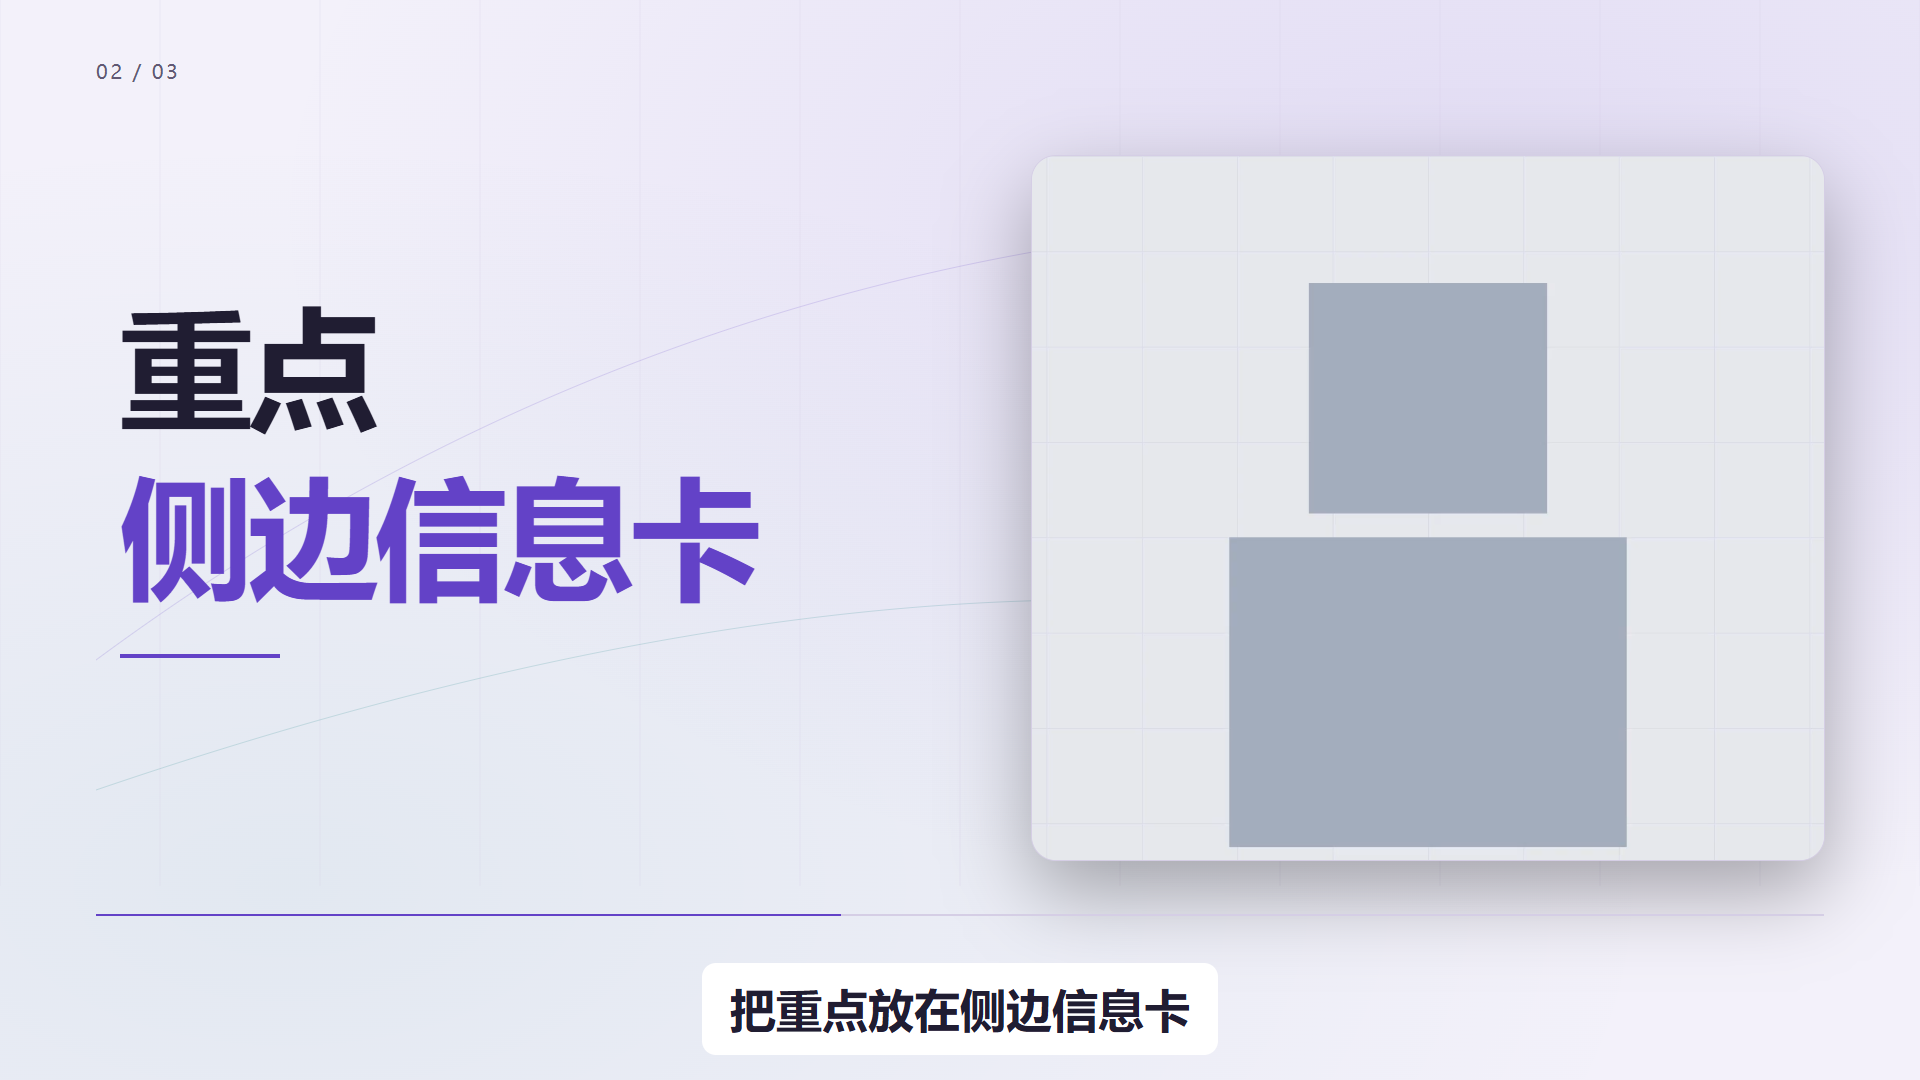
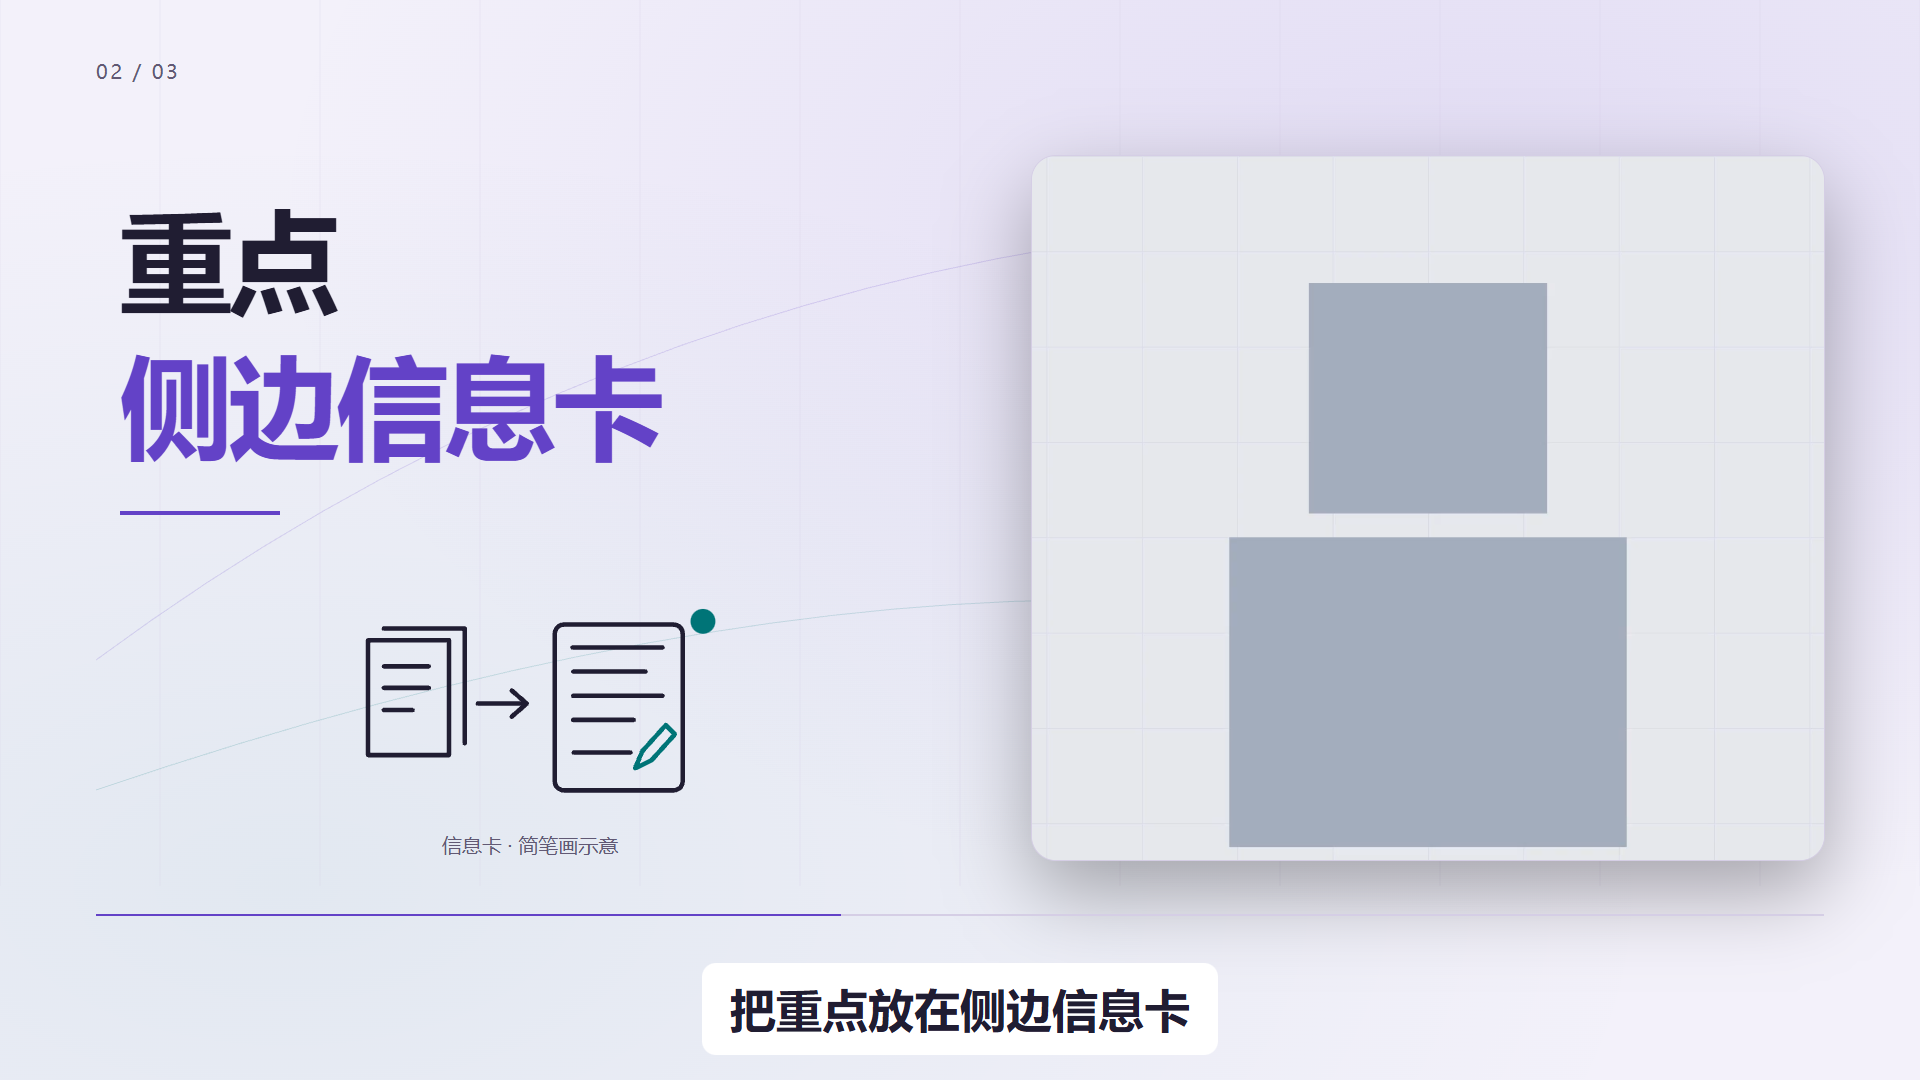
feat: add semantic line drawings and refresh current examples

Changed region(s): [[0.0625, 0.1833, 0.4062, 0.7333], [0.2188, 0.7639, 0.3125, 0.7944]]

diff --git a/packages/remotion-renderer/src/EditorialPresenterVideo.tsx b/packages/remotion-renderer/src/EditorialPresenterVideo.tsx
@@ -3,6 +3,7 @@ import {Video} from '@remotion/media';
 import {AbsoluteFill, staticFile, useCurrentFrame} from 'remotion';
 import type {Storyboard, StoryboardBeat} from '../../core/src/schema';
 import type {SrtCue} from '../../core/src/types';
+import {SourceDoodle} from './illustrations/SourceDoodle';
 
 type Rect = {x: number; y: number; w: number; h: number; r: number};
 type Mode = NonNullable<StoryboardBeat['liteDirection']>['mode'];
@@ -61,6 +62,7 @@ export const EditorialPresenterVideo = ({storyboard: s, cues}: {storyboard: Stor
   const sourceScale = Math.max(rect.w / 1920, rect.h / 886) * (1 + focus);
   const videoWidth = 1920 * sourceScale; const videoHeight = 1080 * sourceScale;
   const direction = beat.liteDirection;
+  const doodle = direction?.doodle;
   const lines = direction?.lines ?? (beat.liteLayout === 'flow' ? (beat.liteItems ?? []).map((text) => Array.from(text).slice(0, 24).join('')) : [beat.content.structure === 'thesis-and-proof' ? beat.content.thesis : beat.text]);
   const label = direction?.eyebrow ?? '';
   const cue = cues.find((q) => q.start <= frame / s.fps && q.end > frame / s.fps);
@@ -88,23 +90,30 @@ export const EditorialPresenterVideo = ({storyboard: s, cues}: {storyboard: Stor
       <span style={{color: mode === 'focus' || mode === 'closing' ? '#FFFFFF' : c.muted}}>{String(index + 1).padStart(2, '0')} / {String(s.beats.length).padStart(2, '0')}</span>
       <span style={{color: c.main}}>{label}</span>
     </div>
-    {mode === 'process' ? <div style={{...textStyle, left: 120, top: 226, width: 1000}}>
+    {mode === 'process' ? <div style={{...textStyle, left: 120, top: doodle ? 170 : 226, width: 1000}}>
       <div style={{height: 4, width: 130 * ready, background: c.main, marginBottom: 32}}/>
       {lines.map((text, i) => {
         const k = out((local - s.fps * (.3 + i * .14)) / (s.fps * .36));
         return <div key={i} style={{display: 'flex', alignItems: 'center', gap: 32, borderBottom: `1px solid ${c.line}`,
-          padding: '26px 0', opacity: k, transform: `translateX(${(1 - k) * -40}px)`}}>
+          padding: doodle ? '14px 0' : '26px 0', opacity: k, transform: `translateX(${(1 - k) * -40}px)`}}>
           <span style={{fontSize: 24, color: c.sub}}>0{i + 1}</span>
-          <div style={{fontSize: fontSize(text, 820, 100), fontWeight: 900, lineHeight: 1.22, whiteSpace: 'nowrap', color: i === (direction?.highlight ?? lines.length - 1) ? c.main : c.ink}}>{text}</div>
+          <div style={{fontSize: fontSize(text, 820, doodle ? 82 : 100), fontWeight: 900, lineHeight: 1.22, whiteSpace: 'nowrap', color: i === (direction?.highlight ?? lines.length - 1) ? c.main : c.ink}}>{text}</div>
         </div>;
       })}
-    </div> : <div style={{...textStyle, left: x, top: mode === 'closing' ? 640 : mode === 'focus' ? 230 : 285,
+    </div> : <div style={{...textStyle, left: x, top: mode === 'closing' ? (doodle ? 230 : 640) : mode === 'focus' ? 230 : doodle ? 190 : 285,
       ...(mode === 'focus' || mode === 'closing' ? {background: `${c.bg}ED`, padding: 30, borderLeft: `4px solid ${c.main}`, borderRadius: '0 16px 16px 0'} : {})}}>
       {label && <div style={{fontSize: 24, color: c.sub, marginBottom: 28, letterSpacing: '.04em'}}>{label}</div>}
-      <Emphasis lines={lines} highlight={direction?.highlight ?? lines.length - 1} width={width} size={mode === 'focus' || mode === 'closing' ? 74 : 132}
+      <Emphasis lines={lines} highlight={direction?.highlight ?? lines.length - 1} width={width} size={mode === 'focus' || mode === 'closing' ? 74 : doodle ? 112 : 132}
         local={local} fps={s.fps} color={c.main} ink={c.ink}/>
       <div style={{width: 160 * ready, height: 4, background: c.main, marginTop: 28}}/>
     </div>}
+    {doodle ? <div data-source-doodle={doodle.type} style={{position: 'absolute', zIndex: 3,
+      left: mode === 'hero' ? 984 : 120, top: 590, width: mode === 'focus' || mode === 'closing' ? 540 : mode === 'process' ? 960 : 820,
+      height: 264, opacity: ready, color: c.muted,
+      ...(mode === 'focus' || mode === 'closing' ? {background: `${c.bg}F0`, borderRadius: 16, padding: 12, boxSizing: 'border-box'} : {})}}>
+      <div style={{height: mode === 'focus' || mode === 'closing' ? 210 : 235}}><SourceDoodle type={doodle.type} progress={out((local - s.fps * .48) / (s.fps * .55))} accent={c.sub} ink={c.ink}/></div>
+      <div style={{fontSize: 20, textAlign: 'center', marginTop: 7}}>{doodle.label} · 简笔画示意</div>
+    </div> : null}
     <div style={{position: 'absolute', left: 96, right: 96, top: 914, height: 2, background: c.line, zIndex: 4}}>
       <div style={{height: '100%', width: `${clamp(frame / (Math.ceil(s.duration * s.fps) - 1)) * 100}%`, background: c.main}}/>
     </div>

diff --git a/tests/readme-integrity.test.ts b/tests/readme-integrity.test.ts
@@ -11,23 +11,20 @@ describe('public README evidence', () => {
   it('links only existing local preview assets', () => {
     const markdown = read('README.md').toString('utf8');
     const links = [...markdown.matchAll(/!\[[^\]]*\]\(([^)]+)\)/g)].map((match) => match[1]);
-    expect(links.length).toBeGreaterThanOrEqual(7);
+    expect(links.length).toBeGreaterThanOrEqual(4);
+    expect(markdown).not.toContain('docs/assets/previews/');
     for (const link of links) expect(existsSync(resolve(root, link))).toBe(true);
   });
 
   it('maps every preview to the verified output and matching file hash', () => {
-    const manifest = JSON.parse(read('examples/auto-editing-0/preview-manifest.json').toString('utf8'));
[1 lines of base64/hex data omitted]
-    expect(new Set(manifest.frames.map((frame: {presentationMode: string}) => frame.presentationMode))).toEqual(new Set(['presenter-safe', 'opaque-full-screen']));
-    for (const frame of manifest.frames) {
-      const path = resolve(root, 'examples/auto-editing-0', frame.file);
+    const manifest = JSON.parse(read('examples/current-demo/preview-manifest.json').toString('utf8'));
+    expect(manifest.kind).toBe('synthetic-renderer-example');
+    expect(manifest.version).toBe(JSON.parse(read('package.json').toString('utf8')).version);
+    for (const frame of manifest.images) {
+      const path = resolve(root, frame.file);
       expect(existsSync(path)).toBe(true);
-      expect(sha256(readFileSync(path))).toBe(frame.sha256);
-      expect(frame.timeSeconds).toBeGreaterThanOrEqual(0);
-      expect(frame.timeSeconds).toBeLessThanOrEqual(manifest.output.durationSeconds);
+      expect(sha256(readFileSync(path))).toBe(frame.sha256.toUpperCase());
     }
-    const contactSheet = resolve(root, 'examples/auto-editing-0', manifest.contactSheet.file);
-    expect(sha256(readFileSync(contactSheet))).toBe(manifest.contactSheet.sha256);
   });
 
   it('keeps the approved business WeChat and QR code together at the end', () => {

diff --git a/packages/remotion-renderer/src/illustrations/SourceDoodle.tsx b/packages/remotion-renderer/src/illustrations/SourceDoodle.tsx
@@ -1,0 +1,34 @@
+import type {ReactElement} from 'react';
+import type {PUBLIC_DOODLE_TYPES} from '../../../core/src/schema';
+import {illustrationRegistry} from './index';
+import {Frame} from './Frame';
+import type {IllustrationProps} from './types';
+
+type DoodleType = (typeof PUBLIC_DOODLE_TYPES)[number];
+/** Generic conceptual diagrams. No logos, screenshots or claims of device operation. */
+export const SourceDoodle = ({type, ...props}: IllustrationProps & {type: DoodleType}): ReactElement => {
+  const shared = {...props, normalized: true};
+  if (type === 'phone-mirror') return <Frame {...shared}>
+    <rect x="74" y="50" width="118" height="252" rx="19"/>
+    <path d="M104 76h57M119 276h29M97 114h70M98 143h50M96 178h71"/>
+    <rect x="318" y="91" width="248" height="174" rx="14"/>
+    <path d="M347 121h190M346 156h130M347 190h190M446 266v34M386 301h121M220 174h68m-24-20 24 20-24 20"/>
+  </Frame>;
+  if (type === 'notes') return <Frame {...shared}>
+    <path d="M72 77h124v176H72zM96 59h124v176M96 117h69M96 150h69M96 184h44"/>
+    <path d="M240 174h75m-23-20 23 20-23 20"/>
+    <rect x="358" y="53" width="196" height="254" rx="14"/>
+    <path d="M385 88h138M386 125h111M386 162h137M386 199h93M387 249h87"/>
+    <path d="m492 247 36-40 14 14-36 40-25 12zM528 207l14 14" stroke={props.accent}/>
+  </Frame>;
+  if (type === 'agent-output') return <Frame {...shared}>
+    <rect x="92" y="100" width="166" height="166" rx="21"/>
+    <rect x="129" y="136" width="92" height="93" rx="12"/>
+    <path d="M116 76v24M154 76v24M192 76v24M230 76v24M116 266v24M154 266v24M192 266v24M230 266v24M66 128h26M66 168h26M66 208h26M66 246h26"/>
+    <path d="M281 181h93m-24-22 24 22-24 22" stroke={props.accent}/>
+    <rect x="412" y="63" width="152" height="240" rx="13"/>
+    <path d="M438 105h100M438 141h82M438 177h101M438 213h70M438 253h95"/>
+  </Frame>;
+  const Existing = illustrationRegistry[type];
+  return <Existing {...shared}/>;
+};

diff --git a/packages/remotion-renderer/src/illustrations/Frame.tsx b/packages/remotion-renderer/src/illustrations/Frame.tsx
@@ -1,20 +1,27 @@
-import type {ReactNode} from 'react';
+import {Children, cloneElement, isValidElement, type ReactNode} from 'react';
 import type {IllustrationProps} from './types';
 
-export const Frame = ({progress, accent, children}: IllustrationProps & {children: ReactNode}) => {
+const normalizedPaths = (children: ReactNode): ReactNode => Children.map(children, (child) => {
+  if (!isValidElement<{children?: ReactNode}>(child)) return child;
+  const shape = typeof child.type === 'string' && ['path', 'rect', 'circle', 'ellipse', 'line', 'polyline', 'polygon'].includes(child.type);
+  return cloneElement(child, {...(shape ? {pathLength: 1} : {}),
+    ...(child.props.children ? {children: normalizedPaths(child.props.children)} : {})});
+});
+
+export const Frame = ({progress, accent, children, ink = '#252933', normalized = false}: IllustrationProps & {children: ReactNode}) => {
   const p = Math.max(0, Math.min(1, progress));
   return (
-    <svg viewBox="0 0 640 360" fill="none" xmlns="http://www.w3.org/2000/svg" aria-hidden="true">
+    <svg viewBox="0 0 640 360" width="100%" height="100%" fill="none" xmlns="http://www.w3.org/2000/svg" aria-hidden="true">
       <g
         fill="none"
-        stroke="#252933"
+        stroke={ink}
         strokeWidth="7"
         strokeLinecap="round"
         strokeLinejoin="round"
         opacity={0.35 + p * 0.65}
-        style={{strokeDasharray: 900, strokeDashoffset: 900 * (1 - p)}}
+        style={{strokeDasharray: normalized ? 1 : 900, strokeDashoffset: (normalized ? 1 : 900) * (1 - p)}}
       >
-        {children}
+        {normalized ? normalizedPaths(children) : children}
       </g>
       <circle cx="585" cy="48" r={10 + p * 9} fill={accent} opacity={0.55 + p * 0.45} />
     </svg>

diff --git a/packages/remotion-renderer/test/illustrations.test.tsx b/packages/remotion-renderer/test/illustrations.test.tsx
@@ -3,8 +3,20 @@ import {describe, expect, it} from 'vitest';
 import {ILLUSTRATION_SCENARIOS} from '../../core/src/schema';
 import {illustrationRegistry} from '../src/illustrations';
 import {SemanticDoodle} from '../src/illustrations/SemanticDoodle';
+import {SourceDoodle} from '../src/illustrations/SourceDoodle';
+import {PUBLIC_DOODLE_TYPES} from '../../core/src/schema';
 
 describe('illustrationRegistry', () => {
+  it('supports new source diagrams and legacy drawings with normalized strokes and selected ink', () => {
+    for (const type of PUBLIC_DOODLE_TYPES) {
+      const markup = renderToStaticMarkup(<SourceDoodle type={type} progress={.5} accent="#58E1FF" ink="#F6F7FF"/>);
+      expect(markup).toContain('stroke="#F6F7FF"');
+      expect(markup).toContain('pathLength="1"');
+      expect(markup).toContain('stroke-dashoffset:0.5');
+      expect(markup).toBe(renderToStaticMarkup(<SourceDoodle type={type} progress={.5} accent="#58E1FF" ink="#F6F7FF"/>));
+      expect(markup).not.toMatch(/<image|<text/);
+    }
+  });
   it('renders six deterministic transparent line illustrations', () => {
     expect(Object.keys(illustrationRegistry).sort()).toEqual([...ILLUSTRATION_SCENARIOS].sort());
     for (const name of ILLUSTRATION_SCENARIOS) {

diff --git a/tests/public-lite.test.ts b/tests/public-lite.test.ts
@@ -17,6 +17,15 @@ const input = {
 };
 
 describe('public-lite product boundary', () => {
+  it('keeps semantic doodle labels traceable to the spoken source', () => {
+    const cues = [{index: 1, start: 0, end: 4, text: '通过手机与电脑的屏幕镜像完成展示'}];
+    const plan = planStoryboard({...input, cues, probe: {...input.probe, duration: 4}, litePresenter: true,
+      liteDirectionByCue: {1: {mode: 'split', lines: ['屏幕镜像'], doodle: {type: 'phone-mirror', label: '屏幕镜像'}}}});
+    expect(plan.beats[0].liteDirection?.doodle?.type).toBe('phone-mirror');
+    expect(() => assertDirectorPlan(plan)).not.toThrow();
+    expect(() => planStoryboard({...input, cues, probe: {...input.probe, duration: 4}, litePresenter: true,
+      liteDirectionByCue: {1: {mode: 'split', lines: ['屏幕镜像'], doodle: {type: 'phone-mirror', label: '未经说明的自动操作'}}}})).toThrow(/literal excerpt/);
+  });
   it('rejects directed claims absent from the supplied source', () => {
     expect(() => planStoryboard({...input, litePresenter: true, liteDirectionByCue: {1: {mode: 'hero', lines: ['不存在的业务结论']}}})).toThrow(/literal excerpt/);
   });

diff --git a/packages/core/src/director-validation.ts b/packages/core/src/director-validation.ts
@@ -31,7 +31,10 @@ export const validateDirectorPlan = (storyboard: Storyboard): DirectorIssue[] =>
     const expectedPalette = storyboard.publicStyle === 'paper' ? 'editorial-cream' : 'deep-ocean';
     return storyboard.beats.flatMap((beat): DirectorIssue[] => {
       const issues: DirectorIssue[] = [];
-      if (beat.liteDirection && [...beat.liteDirection.lines, beat.liteDirection.eyebrow ?? ''].some((copy) => copy && !beat.text.includes(copy))) {
+      if (beat.liteDirection?.doodle && !storyboard.litePresenter) {
+        issues.push({code: 'content-contract', beatId: beat.id, message: 'Semantic doodles require single-presenter composition'});
+      }
+      if (beat.liteDirection && [...beat.liteDirection.lines, beat.liteDirection.eyebrow ?? '', beat.liteDirection.doodle?.label ?? ''].some((copy) => copy && !beat.text.includes(copy))) {
         issues.push({code: 'content-contract', beatId: beat.id, message: 'Directed emphasis must use literal excerpts of the current source beat'});
       }
       if (!beat.liteLayout || beat.illustration || beat.evidence || beat.palette !== expectedPalette || beat.structure !== 'thesis-and-proof') {

diff --git a/packages/remotion-renderer/src/PublicLiteVideo.tsx b/packages/remotion-renderer/src/PublicLiteVideo.tsx
@@ -61,6 +61,7 @@ export const PublicLiteVideo = ({storyboard: s, cues, overlayOnly}: {storyboard:
   const frame = useCurrentFrame(); const c = palette(s.publicStyle === 'paper'); const active = activeAt(s, frame);
   if (s.litePresenter && !overlayOnly) return <EditorialPresenterVideo storyboard={s} cues={cues}/>;
   if (s.litePresenter && overlayOnly) throw new Error('Presenter layout requires composite output');
+  if (s.beats.some((beat) => beat.liteDirection?.doodle)) throw new Error('Semantic doodles require single-presenter composition');
   if (overlayOnly && s.liteCamera) throw new Error('Source camera motion requires composite output');
   const redrawBurned = !overlayOnly && s.captionsMode === 'burned-in' && (s.liteCamera || active?.liteLayout === 'title' || active?.liteLayout === 'flow');
   if (redrawBurned && !cues.length) throw new Error('Public-lite composite requires SRT cues to preserve covered burned-in subtitles');

diff --git a/packages/core/src/schema.ts b/packages/core/src/schema.ts
@@ -43,6 +43,8 @@ export const ILLUSTRATION_SCENARIOS = [
   'before-after-illustration',
 ] as const;
 
+export const PUBLIC_DOODLE_TYPES = [...ILLUSTRATION_SCENARIOS, 'phone-mirror', 'notes', 'agent-output'] as const;
+
 const color = z.string().regex(/^#[0-9a-f]{6}$/i, 'Expected a six-digit hex color');
 
 const beatSchema = z.object({
@@ -74,6 +76,7 @@ const beatSchema = z.object({
     lines: z.array(z.string().trim().min(1).max(24)).min(1).max(3),
     eyebrow: z.string().trim().max(24).optional(),
     highlight: z.number().int().min(0).max(2).optional(),
+    doodle: z.object({type: z.enum(PUBLIC_DOODLE_TYPES), label: z.string().trim().min(1).max(24)}).optional(),
   }).optional(),
 }).superRefine((beat, context) => {
   if (beat.content.structure !== beat.structure) {

diff --git a/packages/core/src/public-lite.ts b/packages/core/src/public-lite.ts
@@ -51,7 +51,7 @@ export const planPublicLite = (input: PlannerInput) => {
     if (layout === 'card') side = side === 'left' ? 'right' : 'left';
     const title = heading(parts[0] ?? cue.text);
     const direction = input.liteDirectionByCue?.[cue.index];
-    if (direction && [...direction.lines, direction.eyebrow ?? ''].some((copy) => copy && !cue.text.includes(copy))) {
+    if (direction && [...direction.lines, direction.eyebrow ?? '', direction.doodle?.label ?? ''].some((copy) => copy && !cue.text.includes(copy))) {
       throw new Error(`Director copy must be a literal excerpt of source cue ${cue.index}`);
     }
     return {

diff --git a/packages/remotion-renderer/src/illustrations/types.ts b/packages/remotion-renderer/src/illustrations/types.ts
@@ -4,4 +4,6 @@ export type IllustrationProps = {
   subject?: string;
   action?: string;
   outcome?: string;
+  ink?: string;
+  normalized?: boolean;
 };

diff --git a/README.md b/README.md
@@ -10,6 +10,7 @@
 |排版|title 开场标题、card 侧边信息卡、flow 两至三个原稿条目的展示|
 |真人镜头|一个连续人物画面在全幅、左右分栏与单窗之间收放；可选1.06倍轻推近|
 |动效|标题逐行遮罩揭示、关键词强调、图文分栏、单窗收放、条目错峰与阅读停留|
+|简笔画|手机镜像、文案收集、Agent输出与六种已有线稿，按语义描线出现并标明“示意”|
 |交付检查|字幕、安全区、连续原声、完整解码、黑帧和文件哈希|
 
 输入采用已经剪好的视频与准确、同步的 SRT。项目不会自动修正口误，也不会根据零散词语编造数字、操作步骤或结论。
@@ -60,6 +61,8 @@ npm run package-video -- --srt INPUT.srt --out RUN --output-mode overlay --width
 
 Agent应先逐句分析语义，并用 `--direction DIRECTION.json` 提炼原句关键词与构图意图。该文件按SRT序号指定 `mode`、`lines`、可选 `eyebrow` 和 `highlight`，每个上屏词必须原样出现在对应原句中。它只描述展示方式，不改字幕、原声或源视频。示例见 [direction.json](examples/current-demo/direction.json)。所有审核阶段保持相同输入和参数。
 
+需要简笔画时，在相应方向条目中加入 `"doodle": {"type": "phone-mirror", "label": "屏幕镜像"}`。标签必须取自该句原稿；图形是概念示意，不是真实设备操作或截图。当前简笔画用于单窗合成MP4，图形区与文字、人物和字幕分开。支持的类型见 [功能与限制](references/public-lite.md)。
+
 ## 检查与限制
 
 ```bash
@@ -89,33 +92,11 @@ npm run verify:public
 
 示例字幕与生成方法见 [示例目录](examples/current-demo/README.md)。
 
-## 历史V2效果记录
+## 当前简笔画示例
 
-<details><summary>展开V2案例截图</summary>
+![手机与电脑镜像简笔画示意](docs/assets/current-demo/doodle.png)
 
-这个已有V2案例为49.273秒、21条SRT，使用8种结构与6套配色。以下截图来自该次成片，展示V2工程的输出；当前CLI使用上面的三种版式。
-
-![真实调用八帧总览](docs/assets/previews/auto-editing-0-contact-sheet.jpg)
-
-![论点与证据](docs/assets/previews/auto-editing-0-01-thesis-and-proof-1.920s.png)
-
-![双侧编辑轨](docs/assets/previews/auto-editing-0-02-editorial-dual-rail-4.269s.png)
-
-![保留口语数值的指标结构](docs/assets/previews/auto-editing-0-03-metric-odometer-6.403s.png)
-
-![命令面板](docs/assets/previews/auto-editing-0-04-command-palette-10.546s.png)
-
-![人物推石上坡的语义简笔画](docs/assets/previews/auto-editing-0-05-semantic-doodle-15.606s.png)
-
-![前后对比](docs/assets/previews/auto-editing-0-06-before-after-scrub-19.564s.png)
-
-![四阶段流程](docs/assets/previews/auto-editing-0-07-four-stage-pipeline-21.501s.png)
-
-![全屏信号路径](docs/assets/previews/auto-editing-0-08-signal-route-26.980s.png)
-
-完整历史证据：[分镜](examples/auto-editing-0/storyboard.json)、[截图manifest](examples/auto-editing-0/preview-manifest.json)。历史进阶语义结构可在 [V2参考](references/visual-structures.md) 查询。
-
-</details>
+此图由当前代码与示例文案生成。首页不再使用旧V2案例截图；真人素材与试看片留在本地，上面的公开示例明确使用合成画面。
 
 感兴趣的朋友欢迎咨询业务微信：nanaya093
 
